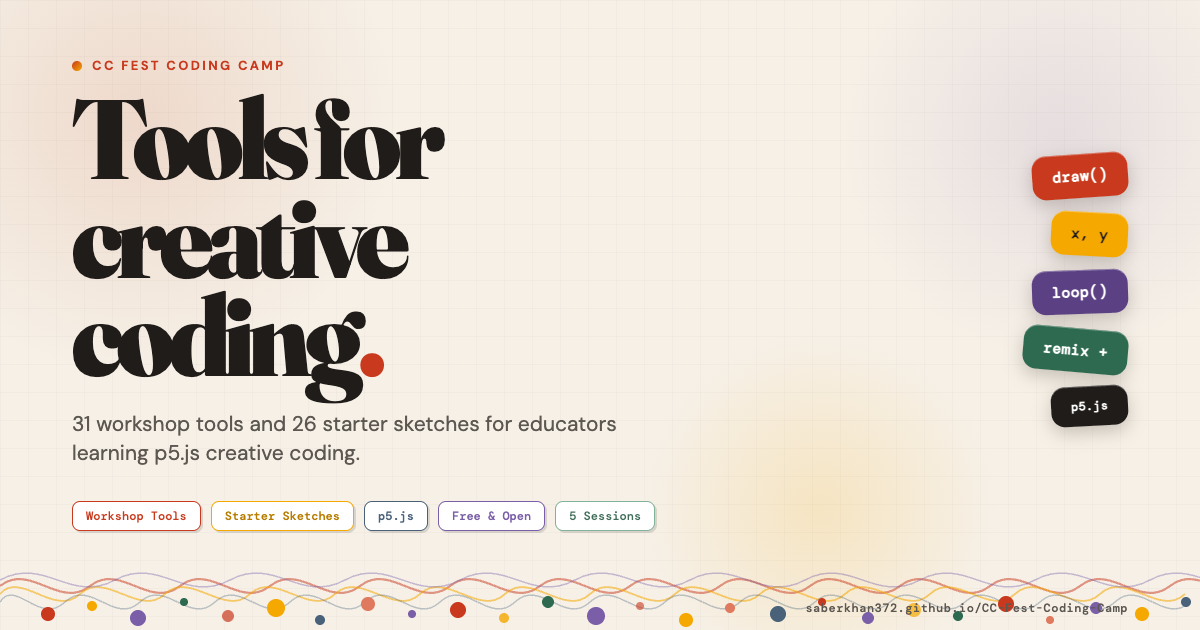
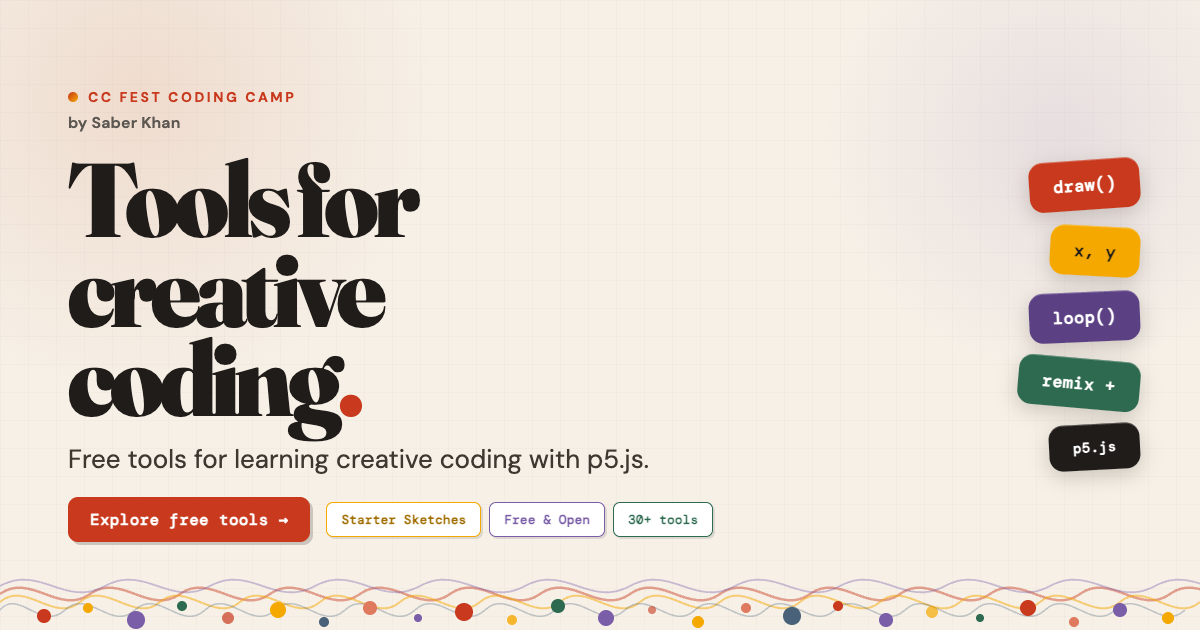
polish og-image: byline, tighter spacing, updated copy

diff --git a/docs/og-image-source.html b/docs/og-image-source.html
@@ -7,65 +7,69 @@
 *{box-sizing:border-box;margin:0;padding:0}
 body{width:1200px;height:630px;overflow:hidden;background:#f6f0e7;font-family:"DM Sans",system-ui,sans-serif;position:relative}
 
-.bg-blob-1{position:absolute;width:520px;height:520px;border-radius:50%;background:radial-gradient(circle,rgba(201,111,74,.18),transparent 70%);top:-140px;left:-120px}
-.bg-blob-2{position:absolute;width:440px;height:440px;border-radius:50%;background:radial-gradient(circle,rgba(122,94,168,.13),transparent 70%);top:-80px;right:-80px}
-.bg-blob-3{position:absolute;width:360px;height:360px;border-radius:50%;background:radial-gradient(circle,rgba(245,168,0,.16),transparent 70%);bottom:-60px;right:200px}
+.bg-blob-1{position:absolute;width:600px;height:600px;border-radius:50%;background:radial-gradient(circle,rgba(201,111,74,.16),transparent 70%);top:-200px;left:-160px}
+.bg-blob-2{position:absolute;width:480px;height:480px;border-radius:50%;background:radial-gradient(circle,rgba(122,94,168,.12),transparent 70%);top:-100px;right:-100px}
 
-.grid{position:absolute;inset:0;background-image:linear-gradient(rgba(44,42,38,.022) 1px,transparent 1px),linear-gradient(90deg,rgba(44,42,38,.022) 1px,transparent 1px);background-size:28px 28px}
+.grid{position:absolute;inset:0;background-image:linear-gradient(rgba(44,42,38,.02) 1px,transparent 1px),linear-gradient(90deg,rgba(44,42,38,.02) 1px,transparent 1px);background-size:28px 28px}
 
-.card{position:absolute;inset:0;display:flex;flex-direction:column;justify-content:center;padding:58px 72px 100px}
+/* ── LEFT CONTENT ── */
+.left{position:absolute;left:68px;top:0;bottom:0;width:680px;display:flex;flex-direction:column;justify-content:center;gap:0}
 
-.eyebrow{font-size:13px;font-weight:700;letter-spacing:.18em;text-transform:uppercase;color:#c8391d;margin-bottom:16px;display:flex;align-items:center;gap:10px}
-.eyebrow::before{content:"";width:10px;height:10px;border-radius:50%;background:linear-gradient(135deg,#c8391d,#f5a800)}
+.eyebrow{font-size:14px;font-weight:700;letter-spacing:.18em;text-transform:uppercase;color:#c8391d;margin-bottom:6px;display:flex;align-items:center;gap:10px}
+.eyebrow::before{content:"";width:10px;height:10px;border-radius:50%;background:linear-gradient(135deg,#c8391d,#f5a800);flex-shrink:0}
 
-.headline{font-family:"Fraunces",serif;font-weight:900;font-size:112px;line-height:.88;letter-spacing:-.06em;color:#201c1a;margin-bottom:24px}
-.headline span{color:#c8391d}
+.headline{font-family:"Fraunces",serif;font-weight:900;font-size:104px;line-height:.86;letter-spacing:-.055em;color:#201c1a;margin-bottom:18px}
+.headline em{color:#c8391d;font-style:normal}
 
-.tagline{font-size:21px;color:#5c5751;font-weight:400;max-width:560px;line-height:1.4;margin-bottom:32px}
+.tagline{font-size:26px;color:#3d3830;font-weight:500;line-height:1.35;margin-bottom:20px;max-width:620px}
 
-.chips{display:flex;gap:10px;flex-wrap:wrap}
-.chip{display:inline-flex;align-items:center;padding:6px 13px;border-radius:8px;font-family:"DM Mono",monospace;font-size:12px;font-weight:500;border:1.5px solid;box-shadow:2px 2px 0 rgba(0,0,0,.12)}
-.chip-red{background:#fff;color:#c8391d;border-color:#c8391d}
-.chip-gold{background:#fff;color:#b87d00;border-color:#f5a800}
-.chip-slate{background:#fff;color:#49627a;border-color:#49627a}
-.chip-purple{background:#fff;color:#7a5ea8;border-color:#7a5ea8}
-.chip-green{background:#fff;color:#3f6d59;border-color:#81b29a}
+.bottom-row{display:flex;align-items:center;gap:16px;flex-wrap:wrap}
 
-.right-panel{position:absolute;right:72px;top:46%;transform:translateY(-50%);display:flex;flex-direction:column;gap:14px;align-items:flex-end}
+.cta{display:inline-flex;align-items:center;gap:8px;background:#c8391d;color:#fff;font-family:"DM Mono",monospace;font-size:16px;font-weight:700;padding:12px 22px;border-radius:10px;letter-spacing:.02em;box-shadow:3px 3px 0 rgba(0,0,0,.18)}
 
-.sticker{display:inline-flex;align-items:center;justify-content:center;padding:12px 20px;border-radius:14px;color:#fff;font-family:"DM Mono",monospace;font-size:15px;font-weight:700;letter-spacing:.02em;box-shadow:0 6px 18px rgba(53,43,32,.25),0 1px 0 rgba(255,255,255,.3) inset}
+.pills{display:flex;gap:8px;flex-wrap:wrap}
+.pill{display:inline-flex;align-items:center;padding:8px 14px;border-radius:7px;font-family:"DM Mono",monospace;font-size:13px;font-weight:600;border:1.5px solid;box-shadow:2px 2px 0 rgba(0,0,0,.1)}
+.p-gold{background:#fff;color:#a06d00;border-color:#f5a800}
+.p-purple{background:#fff;color:#7a5ea8;border-color:#7a5ea8}
+.p-green{background:#fff;color:#2d6a4f;border-color:#2d6a4f}
+
+.byline{margin-top:0;margin-bottom:22px;font-size:16px;font-weight:600;color:#5c5751;font-family:"DM Sans",sans-serif;letter-spacing:.01em}
+
+/* ── RIGHT STICKERS ── */
+.right{position:absolute;right:60px;top:50%;transform:translateY(-50%);display:flex;flex-direction:column;gap:16px;align-items:flex-end}
+
+.sticker{display:inline-flex;align-items:center;justify-content:center;padding:14px 24px;border-radius:14px;color:#fff;font-family:"DM Mono",monospace;font-size:17px;font-weight:700;letter-spacing:.02em;box-shadow:0 6px 20px rgba(53,43,32,.22),0 1px 0 rgba(255,255,255,.25) inset;white-space:nowrap}
 .s1{background:#c8391d;transform:rotate(-4deg)}
 .s2{background:#f5a800;color:#201c1a;transform:rotate(3deg)}
-.s3{background:#5c4084;transform:rotate(-2deg)}
+.s3{background:#5c4084;transform:rotate(-2.5deg)}
 .s4{background:#2d6a4f;transform:rotate(5deg)}
-.s5{background:#201c1a;font-size:12px;transform:rotate(-3deg)}
+.s5{background:#201c1a;font-size:14px;transform:rotate(-3deg)}
 
-.url{position:absolute;bottom:14px;right:72px;font-size:12px;color:#5c5751;font-family:"DM Mono",monospace;letter-spacing:.04em}
-
-/* ── bottom strip ── */
-.bottom-strip{position:absolute;bottom:0;left:0;right:0;height:88px;overflow:hidden}
+/* ── BOTTOM WAVE STRIP ── */
+.wave-strip{position:absolute;bottom:0;left:0;right:0;height:72px}
 </style>
 </head>
 <body>
   <div class="bg-blob-1"></div>
   <div class="bg-blob-2"></div>
-  <div class="bg-blob-3"></div>
   <div class="grid"></div>
 
-  <div class="card">
+  <div class="left">
     <div class="eyebrow">CC Fest Coding Camp</div>
-    <div class="headline">Tools for<br>creative<br>coding<span>.</span></div>
-    <div class="tagline">31 workshop tools and 26 starter sketches for educators learning p5.js creative coding.</div>
-    <div class="chips">
-      <span class="chip chip-red">Workshop Tools</span>
-      <span class="chip chip-gold">Starter Sketches</span>
-      <span class="chip chip-slate">p5.js</span>
-      <span class="chip chip-purple">Free &amp; Open</span>
-      <span class="chip chip-green">5 Sessions</span>
+    <div class="byline">by Saber Khan</div>
+    <div class="headline">Tools for<br>creative<br>coding<em>.</em></div>
+    <div class="tagline">Free tools for learning creative coding with p5.js.</div>
+    <div class="bottom-row">
+      <span class="cta">Explore free tools →</span>
+      <div class="pills">
+        <span class="pill p-gold">Starter Sketches</span>
+        <span class="pill p-purple">Free &amp; Open</span>
+        <span class="pill p-green">30+ tools</span>
+      </div>
     </div>
   </div>
 
-  <div class="right-panel">
+  <div class="right">
     <span class="sticker s1">draw()</span>
     <span class="sticker s2">x, y</span>
     <span class="sticker s3">loop()</span>
@@ -73,49 +77,44 @@ body{width:1200px;height:630px;overflow:hidden;background:#f6f0e7;font-family:"D
     <span class="sticker s5">p5.js</span>
   </div>
 
-  <!-- bottom: sine wave + dots -->
-  <div class="bottom-strip">
-    <svg width="1200" height="88" viewBox="0 0 1200 88" xmlns="http://www.w3.org/2000/svg">
-      <!-- chaotic layered sine waves -->
-      <path d="M0,44 C30,20 60,68 90,44 C120,20 150,68 180,44 C210,20 240,68 270,44 C300,20 330,68 360,44 C390,20 420,68 450,44 C480,20 510,68 540,44 C570,20 600,68 630,44 C660,20 690,68 720,44 C750,20 780,68 810,44 C840,20 870,68 900,44 C930,20 960,68 990,44 C1020,20 1050,68 1080,44 C1110,20 1140,68 1170,44 C1200,20 1230,68 1260,44"
-        fill="none" stroke="#c8391d" stroke-width="2.2" opacity="0.5"/>
-      <path d="M0,52 C20,28 55,76 80,52 C105,28 140,76 165,52 C190,28 225,76 250,52 C275,28 310,76 335,52 C360,28 395,76 420,52 C445,28 480,76 505,52 C530,28 565,76 590,52 C615,28 650,76 675,52 C700,28 735,76 760,52 C785,28 820,76 845,52 C870,28 905,76 930,52 C955,28 990,76 1015,52 C1040,28 1075,76 1100,52 C1125,28 1160,76 1185,52"
-        fill="none" stroke="#f5a800" stroke-width="1.8" opacity="0.55"/>
-      <path d="M0,38 C45,14 70,62 115,38 C160,14 185,62 230,38 C275,14 300,62 345,38 C390,14 415,62 460,38 C505,14 530,62 575,38 C620,14 645,62 690,38 C735,14 760,62 805,38 C850,14 875,62 920,38 C965,14 990,62 1035,38 C1080,14 1105,62 1150,38 C1195,14 1220,62 1265,38"
-        fill="none" stroke="#7a5ea8" stroke-width="1.5" opacity="0.4"/>
-      <path d="M0,60 C15,36 40,84 65,60 C90,36 115,84 140,60 C165,36 190,84 215,60 C240,36 265,84 290,60 C315,36 340,84 365,60 C390,36 415,84 440,60 C465,36 490,84 515,60 C540,36 565,84 590,60 C615,36 640,84 665,60 C690,36 715,84 740,60 C765,36 790,84 815,60 C840,36 865,84 890,60 C915,36 940,84 965,60 C990,36 1015,84 1040,60 C1065,36 1090,84 1115,60 C1140,36 1165,84 1190,60"
-        fill="none" stroke="#49627a" stroke-width="1.4" opacity="0.35"/>
+  <div class="wave-strip">
+    <svg width="1200" height="72" viewBox="0 0 1200 72" xmlns="http://www.w3.org/2000/svg">
+      <path d="M0,36 C30,14 60,58 90,36 C120,14 150,58 180,36 C210,14 240,58 270,36 C300,14 330,58 360,36 C390,14 420,58 450,36 C480,14 510,58 540,36 C570,14 600,58 630,36 C660,14 690,58 720,36 C750,14 780,58 810,36 C840,14 870,58 900,36 C930,14 960,58 990,36 C1020,14 1050,58 1080,36 C1110,14 1140,58 1170,36 C1200,14 1230,58 1260,36"
+        fill="none" stroke="#c8391d" stroke-width="2.5" opacity="0.45"/>
+      <path d="M0,44 C25,22 55,66 80,44 C105,22 135,66 160,44 C185,22 215,66 240,44 C265,22 295,66 320,44 C345,22 375,66 400,44 C425,22 455,66 480,44 C505,22 535,66 560,44 C585,22 615,66 640,44 C665,22 695,66 720,44 C745,22 775,66 800,44 C825,22 855,66 880,44 C905,22 935,66 960,44 C985,22 1015,66 1040,44 C1065,22 1095,66 1120,44 C1145,22 1175,66 1200,44"
+        fill="none" stroke="#f5a800" stroke-width="2" opacity="0.5"/>
+      <path d="M0,28 C40,6 65,50 105,28 C145,6 170,50 210,28 C250,6 275,50 315,28 C355,6 380,50 420,28 C460,6 485,50 525,28 C565,6 590,50 630,28 C670,6 695,50 735,28 C775,6 800,50 840,28 C880,6 905,50 945,28 C985,6 1010,50 1050,28 C1090,6 1115,50 1155,28 C1195,6 1220,50 1260,28"
+        fill="none" stroke="#7a5ea8" stroke-width="1.8" opacity="0.38"/>
+      <path d="M0,52 C18,30 42,74 65,52 C88,30 112,74 135,52 C158,30 182,74 205,52 C228,30 252,74 275,52 C298,30 322,74 345,52 C368,30 392,74 415,52 C438,30 462,74 485,52 C508,30 532,74 555,52 C578,30 602,74 625,52 C648,30 672,74 695,52 C718,30 742,74 765,52 C788,30 812,74 835,52 C858,30 882,74 905,52 C928,30 952,74 975,52 C998,30 1022,74 1045,52 C1068,30 1092,74 1115,52 C1138,30 1162,74 1185,52"
+        fill="none" stroke="#49627a" stroke-width="1.6" opacity="0.32"/>
 
-      <!-- colorful dots scattered along the bottom -->
-      <circle cx="48" cy="72" r="7" fill="#c8391d"/>
-      <circle cx="92" cy="64" r="5" fill="#f5a800"/>
-      <circle cx="138" cy="76" r="8" fill="#7a5ea8"/>
-      <circle cx="184" cy="60" r="4" fill="#2d6a4f"/>
-      <circle cx="228" cy="74" r="6" fill="#c8391d" opacity=".7"/>
-      <circle cx="276" cy="66" r="9" fill="#f5a800"/>
-      <circle cx="320" cy="78" r="5" fill="#49627a"/>
-      <circle cx="368" cy="62" r="7" fill="#e07a5f"/>
-      <circle cx="412" cy="72" r="4" fill="#7a5ea8"/>
-      <circle cx="458" cy="68" r="8" fill="#c8391d"/>
-      <circle cx="504" cy="76" r="5" fill="#f5a800" opacity=".8"/>
-      <circle cx="548" cy="60" r="6" fill="#2d6a4f"/>
-      <circle cx="596" cy="74" r="9" fill="#7a5ea8"/>
-      <circle cx="640" cy="64" r="4" fill="#c8391d" opacity=".6"/>
-      <circle cx="686" cy="78" r="7" fill="#f5a800"/>
-      <circle cx="730" cy="66" r="5" fill="#e07a5f"/>
-      <circle cx="778" cy="72" r="8" fill="#49627a"/>
-      <circle cx="822" cy="60" r="4" fill="#c8391d"/>
-      <circle cx="868" cy="76" r="6" fill="#7a5ea8"/>
-      <circle cx="914" cy="68" r="7" fill="#f5a800" opacity=".7"/>
-      <circle cx="958" cy="74" r="5" fill="#2d6a4f"/>
-      <circle cx="1006" cy="62" r="8" fill="#c8391d"/>
-      <circle cx="1050" cy="78" r="4" fill="#e07a5f"/>
-      <circle cx="1096" cy="66" r="6" fill="#7a5ea8"/>
-      <circle cx="1142" cy="72" r="7" fill="#f5a800"/>
-      <circle cx="1186" cy="60" r="5" fill="#49627a"/>
+      <!-- dots -->
+      <circle cx="44"  cy="58" r="7"  fill="#c8391d"/>
+      <circle cx="88"  cy="50" r="5"  fill="#f5a800"/>
+      <circle cx="136" cy="62" r="9"  fill="#7a5ea8"/>
+      <circle cx="182" cy="48" r="5"  fill="#2d6a4f"/>
+      <circle cx="228" cy="60" r="6"  fill="#c8391d" opacity=".7"/>
+      <circle cx="278" cy="52" r="8"  fill="#f5a800"/>
+      <circle cx="324" cy="64" r="5"  fill="#49627a"/>
+      <circle cx="370" cy="50" r="7"  fill="#e07a5f"/>
+      <circle cx="418" cy="60" r="4"  fill="#7a5ea8"/>
+      <circle cx="464" cy="54" r="9"  fill="#c8391d"/>
+      <circle cx="512" cy="62" r="5"  fill="#f5a800" opacity=".8"/>
+      <circle cx="558" cy="48" r="7"  fill="#2d6a4f"/>
+      <circle cx="606" cy="60" r="8"  fill="#7a5ea8"/>
+      <circle cx="652" cy="52" r="4"  fill="#c8391d" opacity=".6"/>
+      <circle cx="698" cy="64" r="6"  fill="#f5a800"/>
+      <circle cx="746" cy="50" r="5"  fill="#e07a5f"/>
+      <circle cx="792" cy="58" r="9"  fill="#49627a"/>
+      <circle cx="838" cy="48" r="5"  fill="#c8391d"/>
+      <circle cx="886" cy="62" r="7"  fill="#7a5ea8"/>
+      <circle cx="932" cy="54" r="6"  fill="#f5a800" opacity=".7"/>
+      <circle cx="980" cy="60" r="4"  fill="#2d6a4f"/>
+      <circle cx="1028" cy="50" r="8" fill="#c8391d"/>
+      <circle cx="1074" cy="64" r="5" fill="#e07a5f"/>
+      <circle cx="1120" cy="52" r="7" fill="#7a5ea8"/>
+      <circle cx="1168" cy="60" r="6" fill="#f5a800"/>
     </svg>
   </div>
-
-  <div class="url">saberkhan372.github.io/CC-Fest-Coding-Camp</div>
 </body>
 </html>